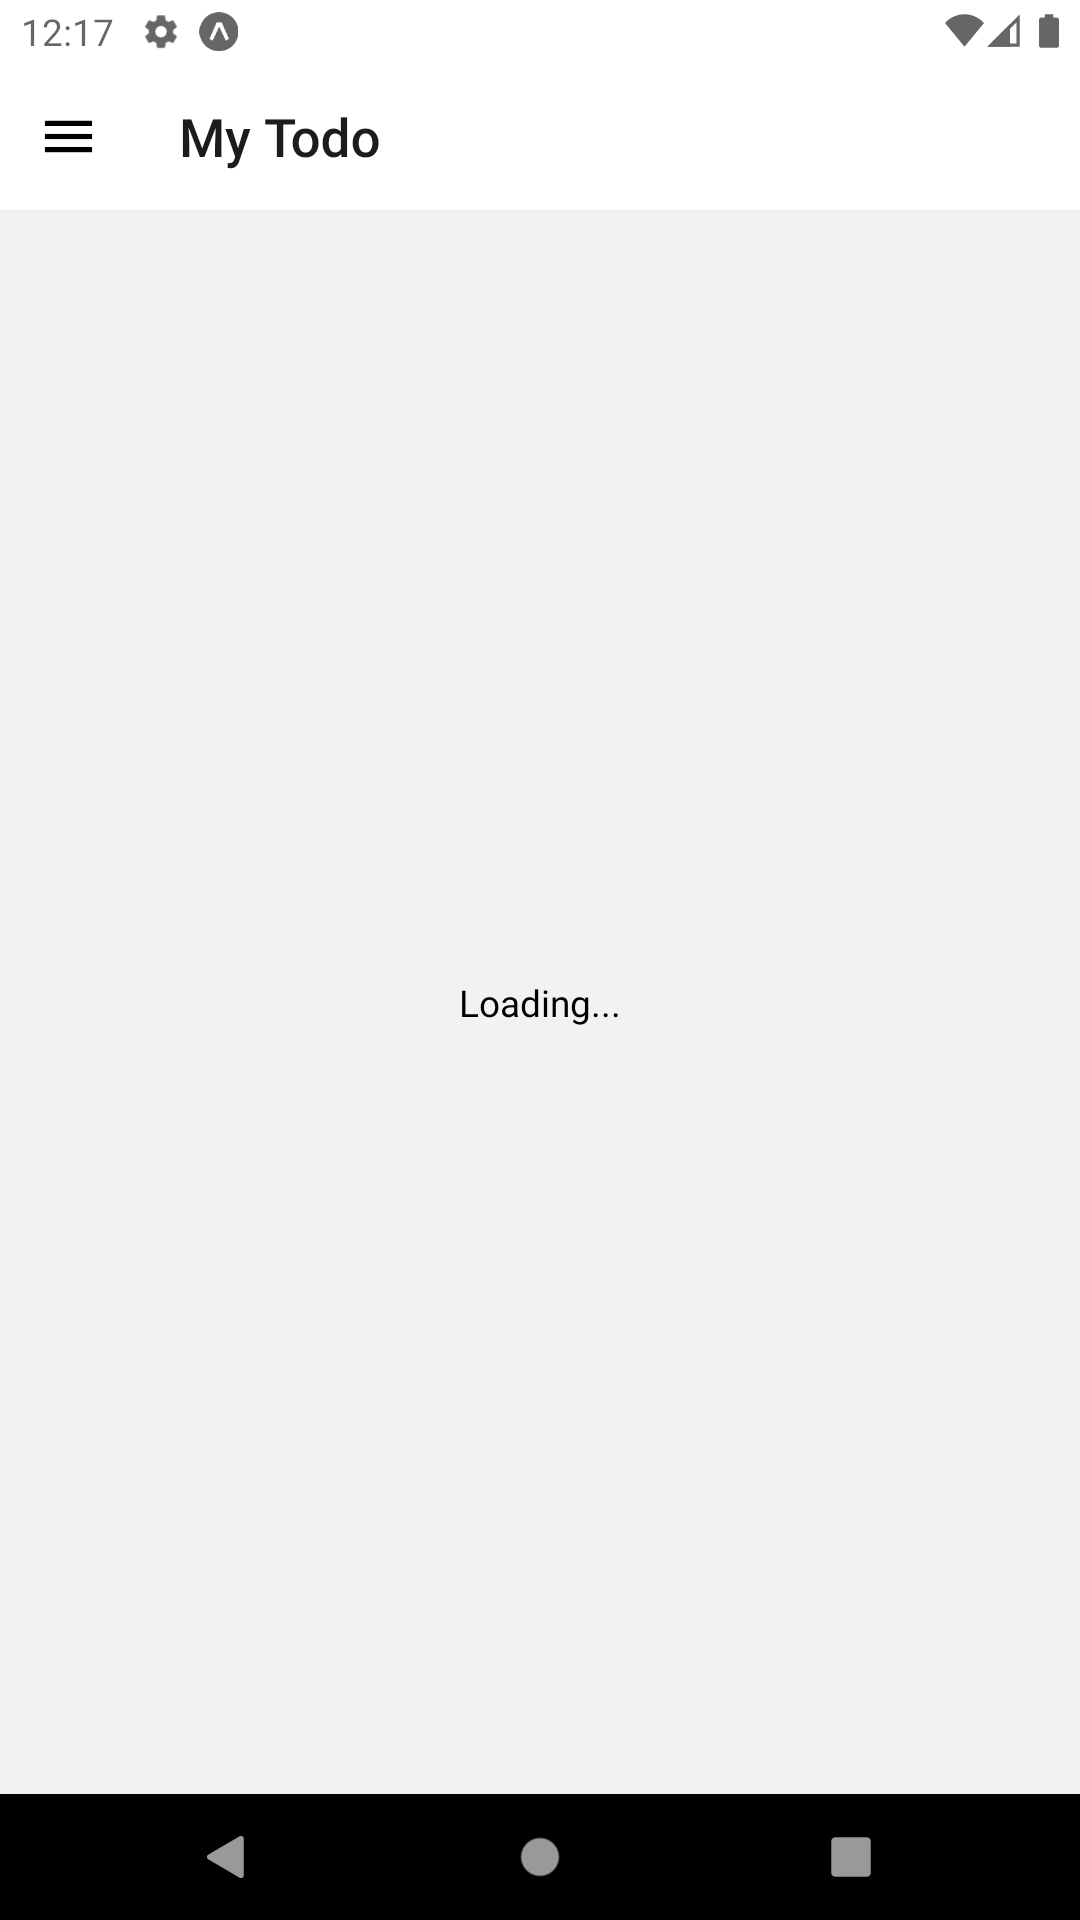
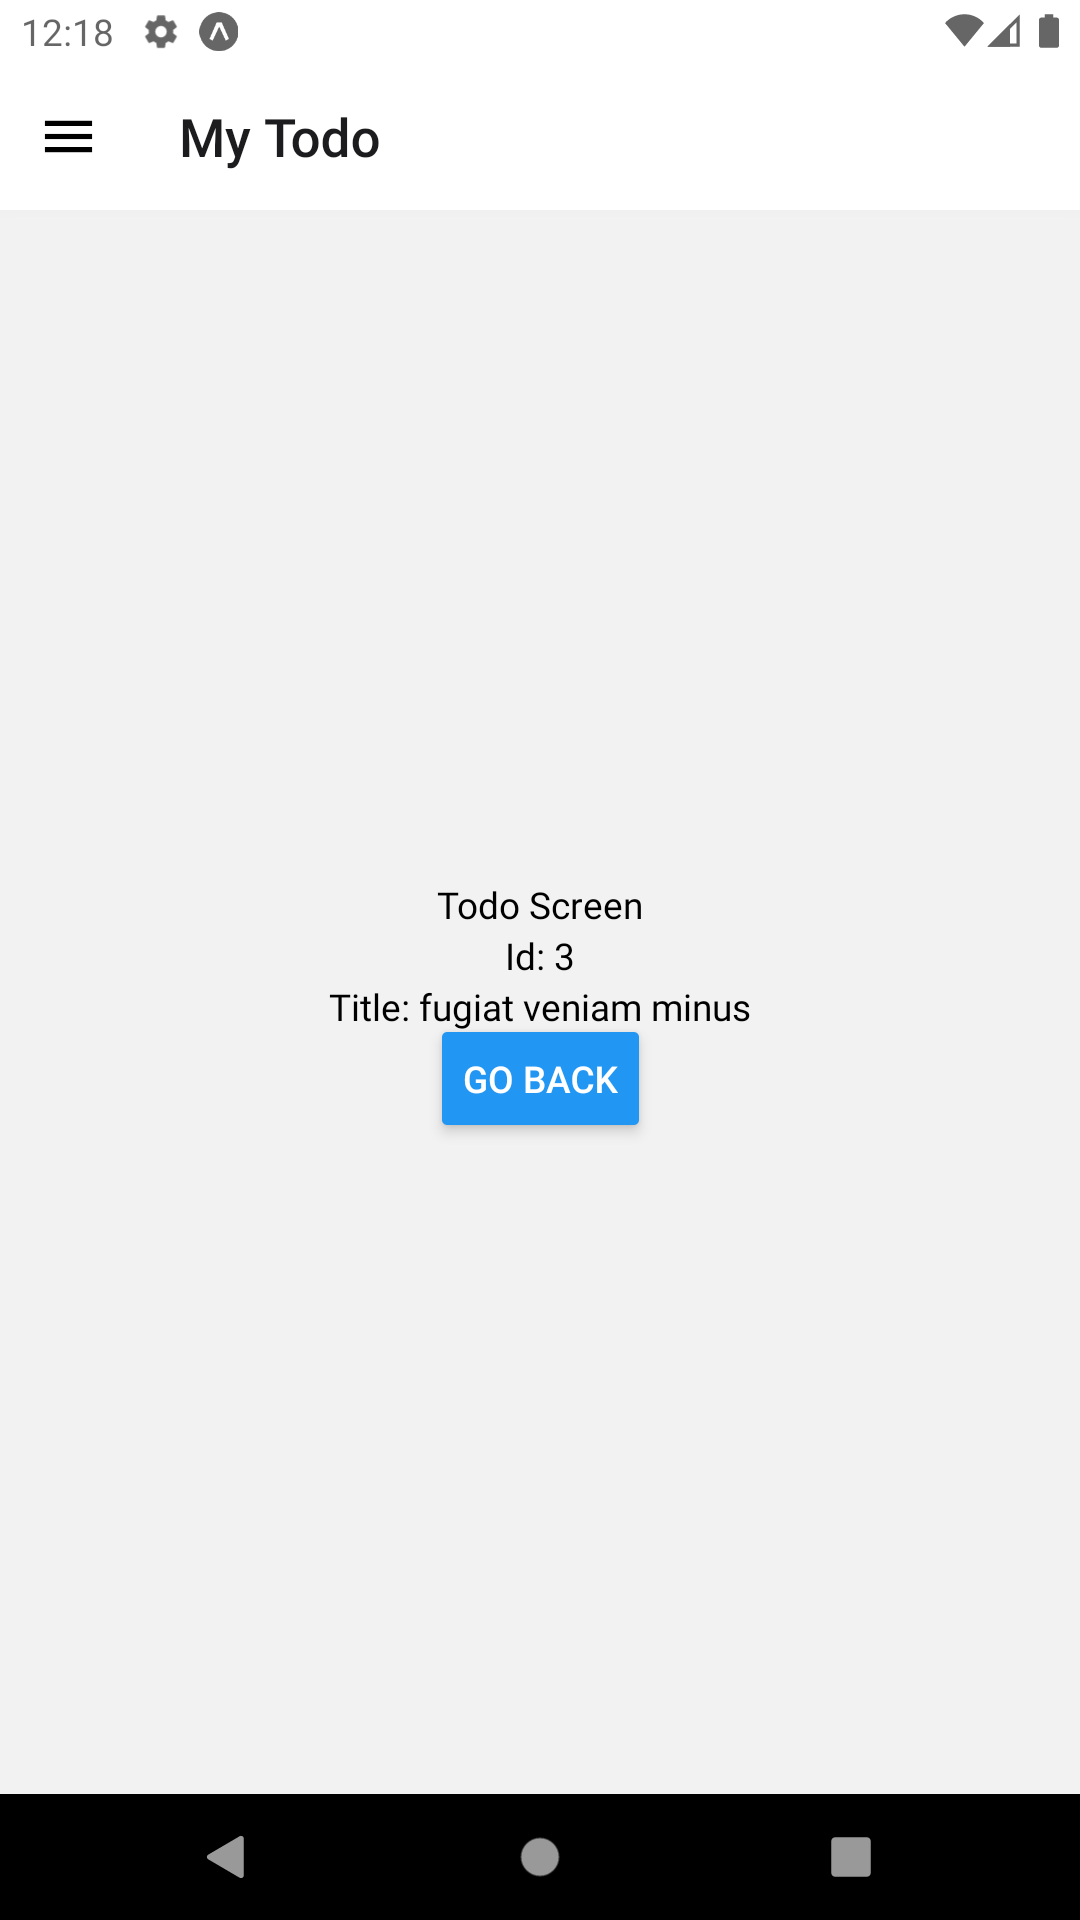
update

Changed region(s): [[0.3972, 0.4688, 0.7028, 0.5938], [0.3056, 0.5, 0.3667, 0.5312]]

diff --git a/lecture-notes/02-navigation.md b/lecture-notes/02-navigation.md
@@ -475,15 +475,13 @@ Reload your application. You should see the following:
 
 **Research Tasks:**
 
-Create a button on the `HomeScreen` that navigates to another screen called `NASAScreen`. The `NASAScreen`screen will display **Astronomy Picture of the Day** data via the **NASA API**. **Resource:** <https://api.nasa.gov>
+1. Create a button on the `HomeScreen` that navigates to another screen called `NASAScreen`. The `NASAScreen`screen will display **Astronomy Picture of the Day** data via the **NASA API**. **Resource:** <https://api.nasa.gov>
 
-<img src="../resources/img/02/research-task-1.png" width="250" height="444" />
+<img src="../resources/img/02/research-task-1.png" width="250" height="444" /> <img src="../resources/img/02/research-task-2.png" width="250" height="444" />
 
-<img src="../resources/img/02/research-task-2.png" width="250" height="444" />
+2. Create a button on the `HomeScreen` that navigates to another screen called `TodoScreen`. The `TodoScreen` screen will display todo data via the **JSON Placeholder API**. **Resource:** <https://jsonplaceholder.typicode.com>
 
-<img src="../resources/img/02/research-task-3.png" width="250" height="444" />
+<img src="../resources/img/02/research-task-3.png" width="250" height="444" /> <img src="../resources/img/02/research-task-5.png" width="250" height="444" />
 
-<img src="../resources/img/02/research-task-4.png" width="250" height="444" />
-
-<img src="../resources/img/02/research-task-5.png" width="250" height="444" />
+3. When you navigate to both screens, create a component that displays the text `Loading...`. When the data is fetched, display the data.
 
